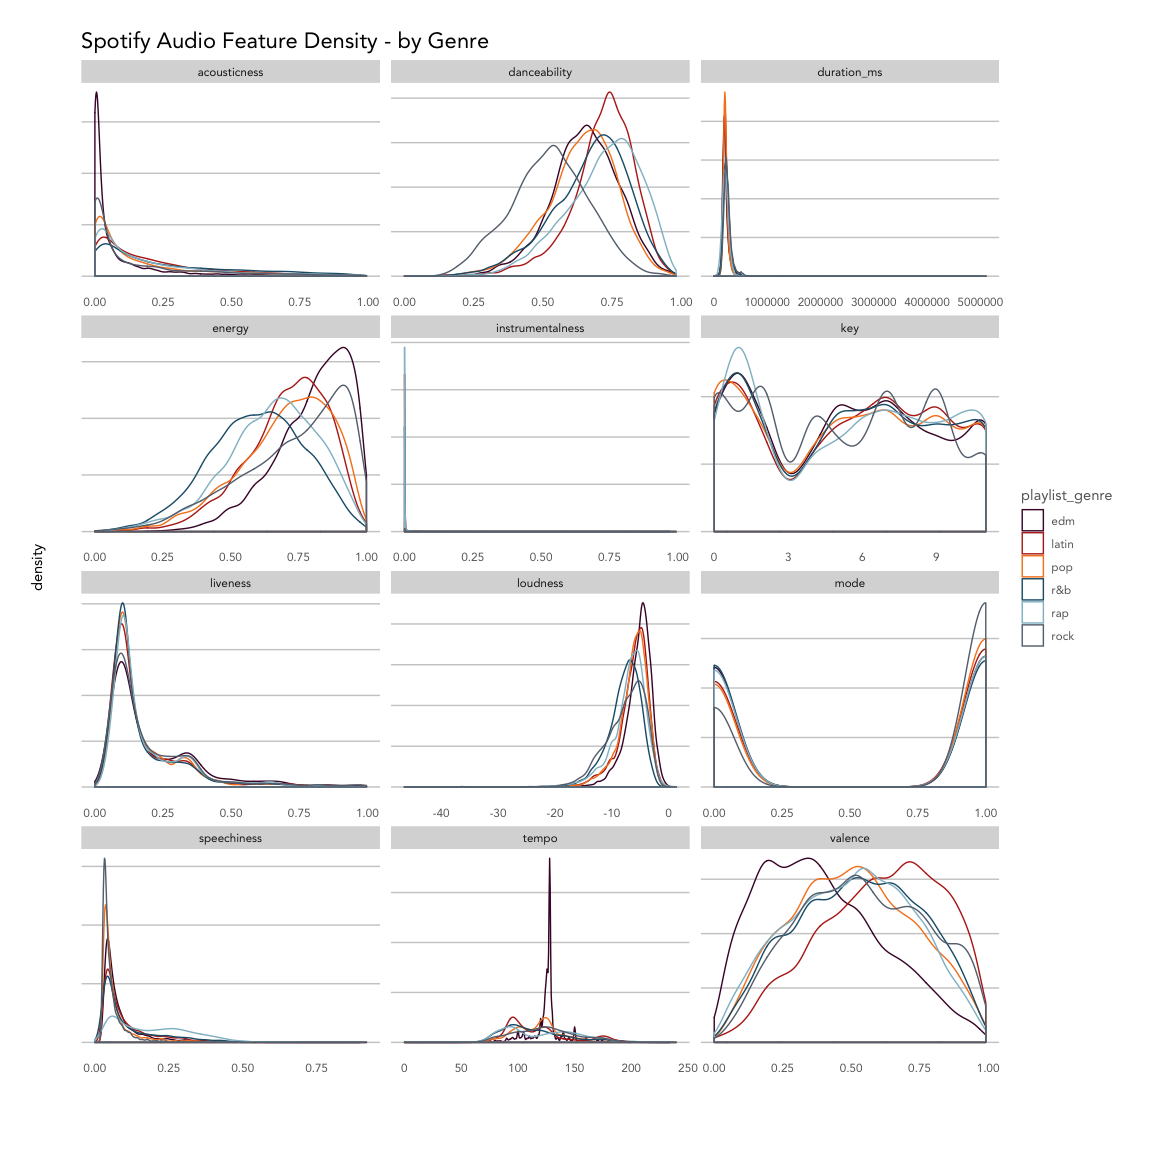
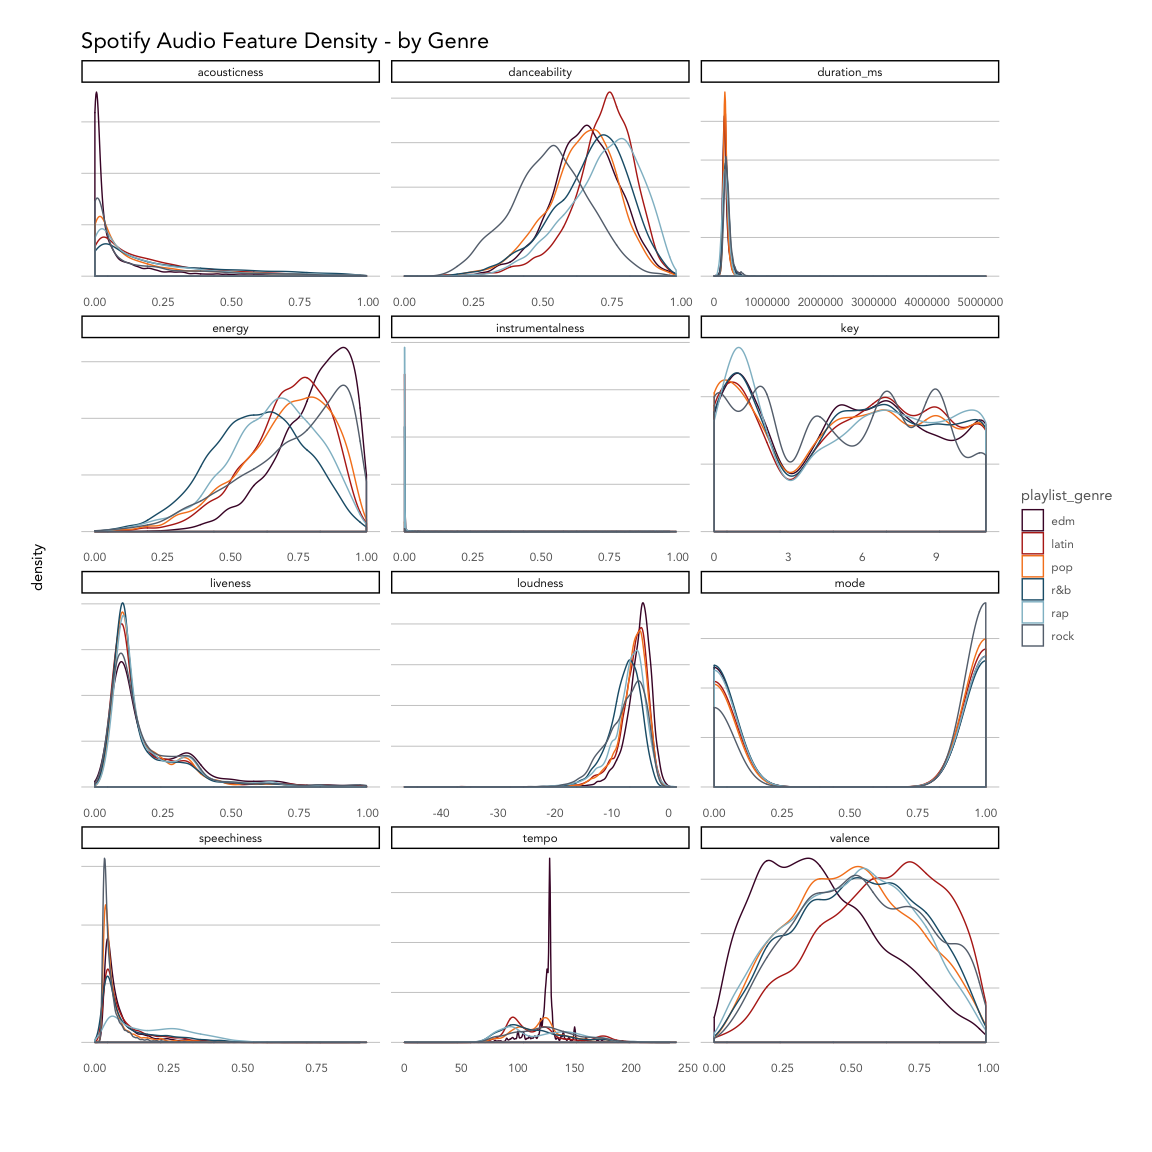
theme_set

diff --git a/spotify_genres.md b/spotify_genres.md
@@ -78,6 +78,7 @@ library(rpart)
 library(rpart.plot)
 library(xgboost)
 source('../kp_themes/theme_kp.R')
+theme_set(theme_classic() + theme_kp())
 options(scipen = 999)
 
 knitr::opts_chunk$set(echo = TRUE, fig.width = 8, fig.height = 6, 
@@ -143,7 +144,6 @@ playlist_songs %>%
   facet_wrap(~name, ncol = 3, scales = 'free') +
   labs(title = 'Spotify Audio Feature Density - by Genre',
        x = '', y = 'density') +
-  theme_kp() +
   theme(axis.text.y = element_blank()) + 
   scale_color_kp(palette = 'mixed')
 ```
@@ -183,8 +183,7 @@ playlist_songs %>%
   ggplot(aes(y = duration_ms)) +
   geom_boxplot(color = kp_cols('red'), coef = 4) +
   coord_flip() +
-  labs(title = 'Duration') +
-  theme_kp() 
+  labs(title = 'Duration') 
 ```
 
 ![](spotify_genres_files/figure-gfm/outliers-1.png)<!-- -->
@@ -538,7 +537,6 @@ compare_importance %>%
   labs(title = 'Variable Importance by Model',
        subtitle = 'Scaled for comparison',
        y = 'Scaled value', x = '') +
-  theme_kp() + 
   scale_color_kp(palette = 'cool')
 ```
 
@@ -613,7 +611,6 @@ compare_dt %>%
        subtitle = 'Accuracy denoted as a percent label',
        y = 'Count classified') +
   ylim(c(0,1000)) +
-  theme_kp() +
   theme(panel.grid.major.y = element_blank()) +
   scale_fill_kp() 
 ```
@@ -655,8 +652,7 @@ data.frame(proporation_of_variance = song_eigen$values/sum(song_eigen$values)) %
   geom_line() +
   ylim(c(0,1)) +
   labs(title = 'Cumulative Scree Plot', 
-       x = 'Principal Component', y = 'Cumulative % of variance explained') +
-  theme_kp() 
+       x = 'Principal Component', y = 'Cumulative % of variance explained') 
 ```
 
 ![](spotify_genres_files/figure-gfm/pca-1.png)<!-- -->
@@ -683,7 +679,6 @@ song_eigenvectors %>%
   coord_flip() +
   labs(title = 'Principal Component Loadings', 
        x = 'loading', y = '') +
-  theme_kp() + 
   scale_fill_kp() 
 ```
 
@@ -705,7 +700,6 @@ PC %>%
   geom_point(alpha = 0.25) + 
   facet_wrap(~playlist_genre) +
   labs(title = 'Plotting principal components 1 vs 2') +
-  theme_kp() + 
   scale_color_kp(palette = 'mixed') 
 ```
 
